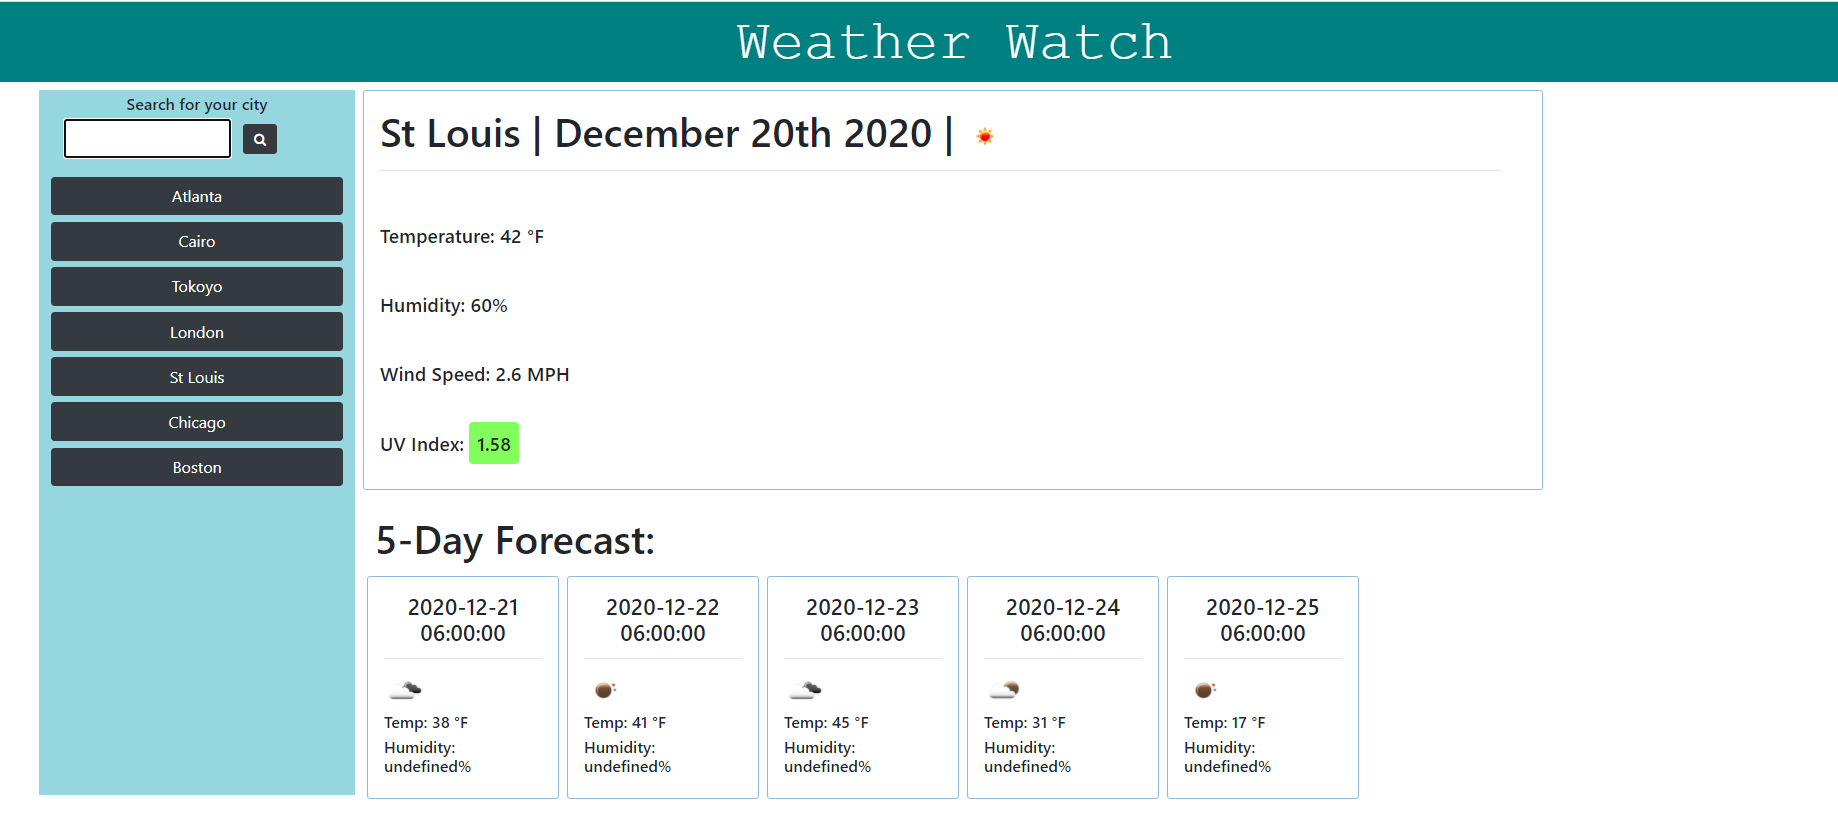
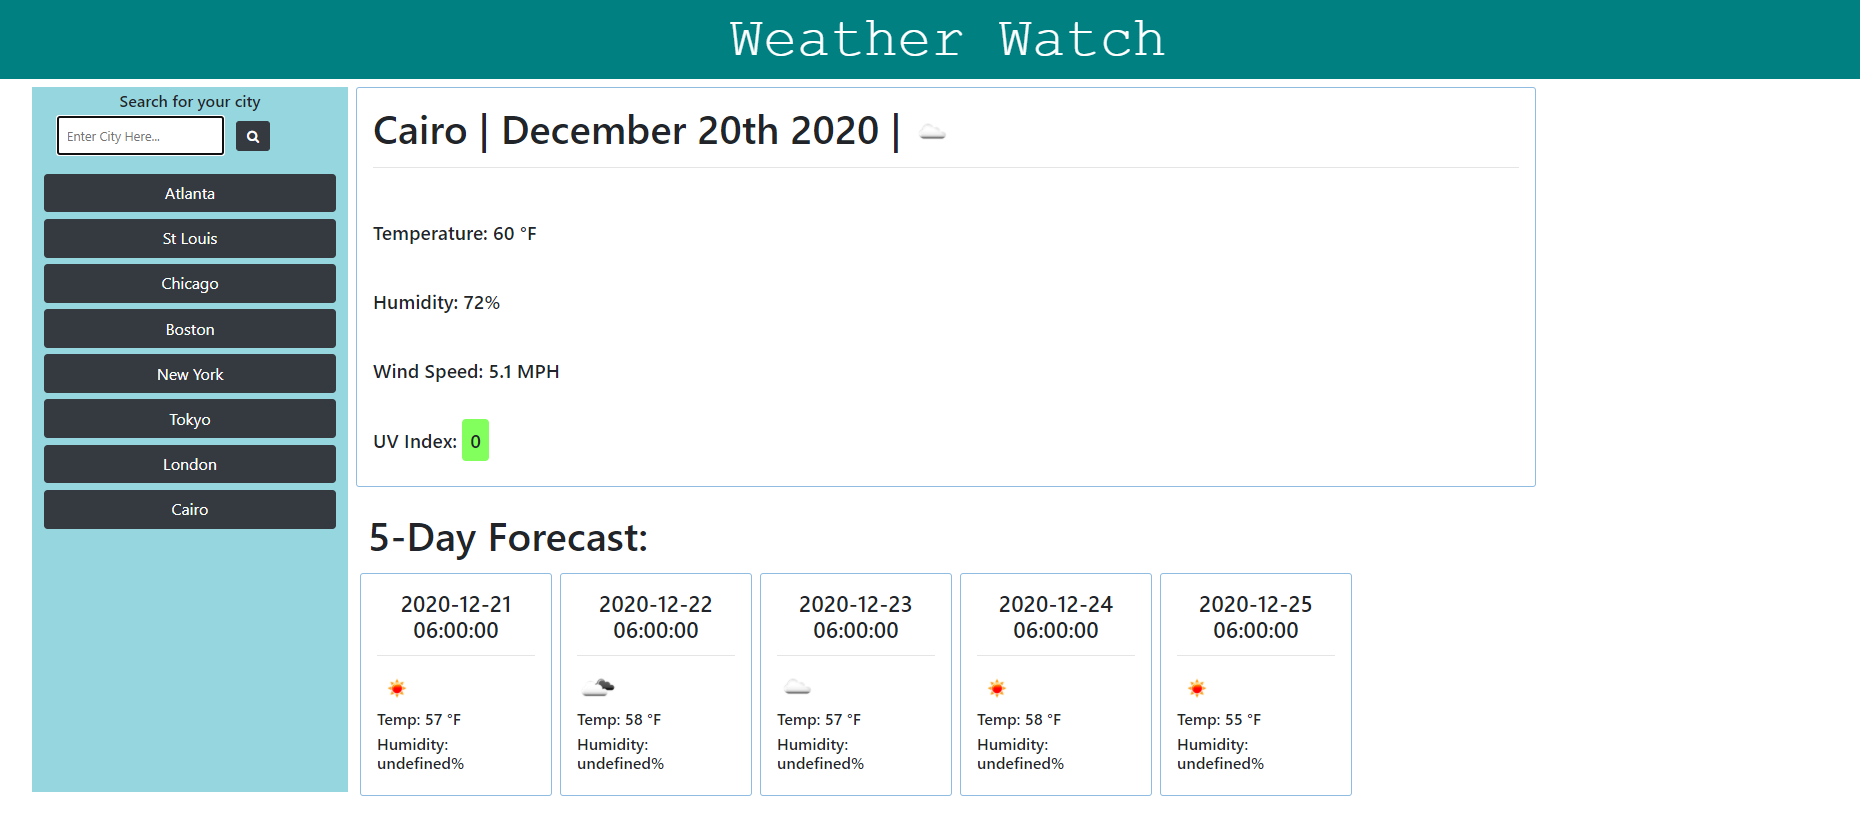
updated html to include placeholder text in search box, updated asset folder with new demo screen, refined css

Changed region(s): [[0.0, 0.0, 1.0, 0.9721]]

diff --git a/style.css b/style.css
@@ -1,4 +1,3 @@
-
 header{
 text-align: center;
 padding: 10px;
@@ -19,7 +18,6 @@ h2 {
 #side-bar {
     background-color: rgb(150, 214, 223);
 }
-
 
 aside {
     padding-top: 5px;
@@ -42,7 +40,6 @@ aside {
     border-color: rgb(145,  188, 226); 
 }
 
-
 .daily-forecast{
     margin: 5px; 
     margin-top: 10px;
@@ -52,11 +49,14 @@ aside {
     border-color:rgb(145,  188, 226);
 } 
 
+#five-day-forecast{
+width: 100%;
+}
+
 #user-input {
 position: center;
 padding: 5%;
 }
-
 
 .button-group {
     margin-top: 15px;
@@ -115,6 +115,7 @@ h4 {
     } 
 
 }
+
 @media screen and (max-width: 1350px){
     .container {
         margin-left: 0;

diff --git a/index.html b/index.html
@@ -32,7 +32,7 @@
                     <form class="form-inline">
                         <div class="form-group mx-sm-3 mb-2">
         
-                            <input class="" id="user-input">
+                            <input class="" id="user-input" placeholder="Enter City Here...">
                         </div>
                         <button type="button" class="btn btn-dark mb-2 " id="submit-btn"><i class="fa fa-search"
                                 aria-hidden="true"></i></button>
